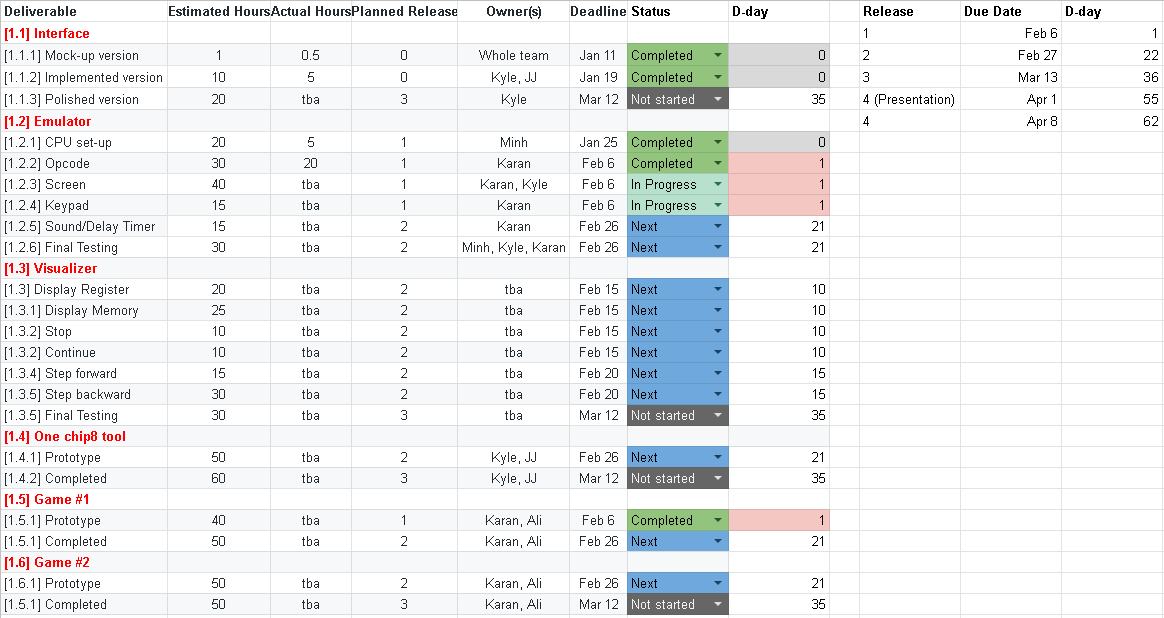
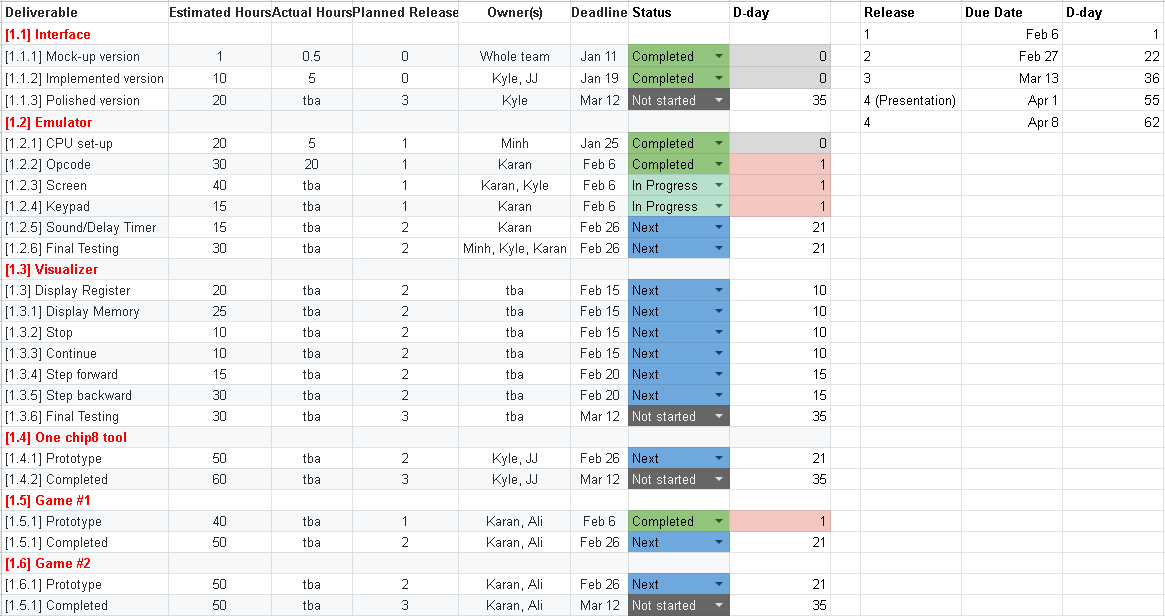
update doc

diff --git a/Product_Document.md b/Product_Document.md
@@ -82,7 +82,7 @@ NO-SHOW RULE: For pre-scheduled meetings (either in person or voice call), if a 
 |Automated tests |Emulator, Visualizer, chip8 tool |  JavaScript, Jest, Chrome, Firefox|
 |Version control	| All components 	| Git, Github	|
 |Communication	| All components 	| Slack, Discord, Phone	|
-|Planning	| All components 	| [Trello](https://trello.com) for Kanban Board, Google Doc & Spreadsheet (**UPDATED**: Migrating to [Wrike](https://www.wrike.com/) for centralization)|
+|Planning	| All components 	| [Trello](https://trello.com) for Kanban Board, Google Doc & Spreadsheet|
 
 - Hardware: Members should bring their personal laptop for group meetings. For remote work, they can either work on laptop or desktop.
 
@@ -92,50 +92,17 @@ NO-SHOW RULE: For pre-scheduled meetings (either in person or voice call), if a 
 
 The work breakdown and project schedule below are tentative and will be update after each iteration. We used the rule of thumb introduced in class: (informal estimate of time) * 3 to calculate the Estimated Efforts (hours). 
 
-**UPDATED**: **Febuary 4, 2018**: Implementing all 36 opcodes instead of split them between Release 1 and 2. Add [1.2.3] Screen implementation as a subtask for deliverable [1.2] Emulator. Update owners for subtask [1.2.2] and [1.2.3]. 
-
-**UPDATED**: **Febuary 5, 2018**: Started using Google Spreadsheet for Work Breakdown which allows easier replainning. 
+**UPDATED**: **Febuary 5, 2018**: Started using Google Spreadsheet for Work Breakdown which allows easier replainning for future releases. 
 
 [Link to Work Breakdown Spreadsheet](https://docs.google.com/spreadsheets/d/1HqADerMmskoAKjknKuDWZFQrG6OZgpwF0acj79XQYGA/edit?usp=sharing) 
 
-Bellow is a snapshoot of out current Work Breakdown Spreadsheet:
+Bellow is a snapshoot of out current Work Breakdown Spreadsheet, taken on Febuary 5, 2018:
 
 ![WBS example](WBS.PNG)
 
-|   Deliverable	|   Estimated Efforts (hours)	|   Actual Efforts (hours)  | Planned Release |Owner(s)| Deadline|
-|:-	|:-:	|:-:	|:-:	|:-:	|:-:	|
-|**[1.1] Interface**|	|	|	|	|
-|[1.1.1] Mock-up version| 1 | 0.5  | 0	| Whole team	| Jan 11	|
-|[1.1.2] Implemented version|10  | 5 	|0	| Kyle, JJ	|Jan 19	|
-|**[1.2] Emulator**|    |	|	|  |
-|[1.2.1] CPU set-up| 20 	|tba	| 1	| Minh | Jan 25 | 
-|[1.2.2] Opcode implementation| 30 	|tba	| 1	|Karan | Feb 6  | 
-|[1.2.3] Screen implementation| 40 	|tba	| 1	|Karan, Kyle | Feb 6  |
-|[1.2.4] Input/Output/Sound implementation| 15	| tba	|1	| Minh, JJ | Feb 6 | 
-|[1.2.5] Final Testing| 30	| tba|2	|Minh, Kyle, Karan| Feb 26 | 
-|**[1.3] Visualizer**|	|	|	|
-|[1.3] Display Register Values|20	|tba	|2	|tba | Feb 15 | 
-|[1.3.1] Display Memory| 25	|tba|2|tba | Feb 15 | 
-|[1.3.2] Stop|10|tba|2|tba | Feb 15 | 
-|[1.3.2] Continue|10|tba|2|tba | Feb 15 | 
-|[1.3.4] Step forward|15|tba|2|tba | Feb 20 | 
-|[1.3.5] Step backward (max 10 steps)|30 |tba|2|tba | Feb 20 | 
-|[1.3.5] Final Testing|30 |tba|2| tba | Feb 25 | 
-|**[1.4] One chip8 tool**| 	|	|	| 
-|[1.4.1] Prototype| 50 	|tba	|2	| Kyle, JJ | Feb 26
-|[1.4.2] Completed| 60 	|tba	|3	| Kyle, JJ | Mar 12
-|**[1.5] Game #1**| 	|	|	|
-|[1.5.1] Prototype| 40 	|tba	|1	| Karan, Ali | Feb 5
-|[1.5.1] Completed| 50 	|tba	|2	| Karan, Ali | Feb 26
-|**[1.6] Game #2**| 	|	|	|
-|[1.6.1] Prototype| 50 	|tba	|2	| Karan, Ali | Feb 26
-|[1.5.1] Completed| 50 	|tba	|3	| Karan, Ali | Mar 12
-
 ## Project schedule
 
-**UPDATED**: **Febuary 4, 2018**: After using Trello to track project progression for Release 0 and 1, we have decided to switch to [Wrike](https://www.wrike.com/) starting from Release 2 to centralize work breakdown and project schedule and tracking in one place, thus marking re-planning easier. *Wrike* has student program which includes all functionalities that we need (for free) such as: Kanban Board, Gantt Chart, Time tracking and team collaboration. The project manager has sent a request to Wrike and received a 2-year student plan for a team of up to 15 people, only one member need to submit the request and once approved, can send inviations to other teammates. 
-
-The due dates of major deliverables are shown in the table above. Detailed scheduling, progress tracking and updates are done using Kanban Board via [Trello](https://trello.com). An example for release 0 is shown below:
+The due dates of major deliverables are shown in the table above. Detailed scheduling, progress tracking and updates are done using Kanban Board via [Trello](https://trello.com). **UPDATED Febuary 5**: An example for release 1 is shown below:
 
 ![Trello example](trello_example.PNG)
 
